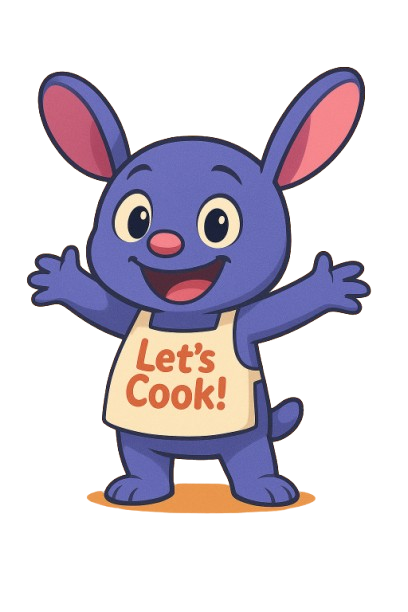
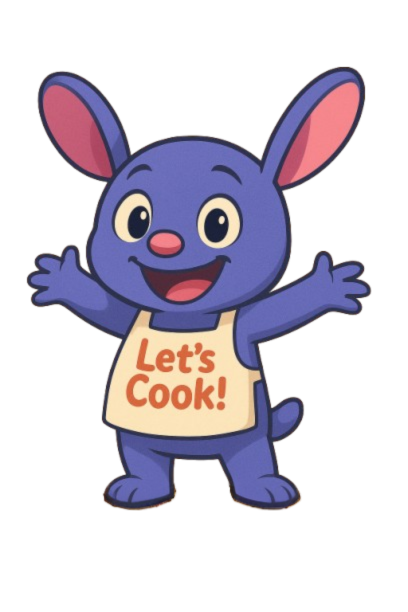
Added CSS shadow

Changed region(s): [[0.2059, 0.7761, 0.7941, 0.8382], [0.2059, 0.4036, 0.2353, 0.4346]]

diff --git a/js/cook.js b/js/cook.js
@@ -145,6 +145,7 @@ function showCookingPage(recipe) {
   var char = document.getElementById("game-character");
   char.src = "../assets/Character_all/Gembira.png";
   char.style.animation = "charaJumping 1s ease-out infinite";
+  document.getElementById("character-shadow").style.animation = "shadowJumping 1s ease-out infinite";
 
   timerInterval = setInterval(() => {
     timerSoundTicking.play();
@@ -152,6 +153,7 @@ function showCookingPage(recipe) {
     if (timeLeft < 15) {
       document.getElementById("game-character").src = "../assets/Character_all/Panik.png";
       document.getElementById("game-character").style.animation = "panicShake 1s ease-out infinite";
+      document.getElementById("character-shadow").style.animation = "panicShake 1s ease-out infinite";
     }
     if (timeLeft < 50) {
       timeScore = Math.max(0, Math.floor((timeLeft / 50) * 70));
@@ -239,8 +241,10 @@ function drop(ev) {
     if (score === 100) {
       char.src = "../assets/Character_all/Buncit.png";
       char.style.animation = "none";
+      document.getElementById("character-shadow").style.animation = "none";
     } else {
       char.src = "../assets/Character_all/GoodJob.png";
+      document.getElementById("character-shadow").style.animation = "none";
     }
 
     stopTicking();
@@ -289,6 +293,7 @@ function showFailMessage() {
   };
   document.getElementById("game-character").src = "../assets/Character_all/Sedih.png";
   document.getElementById("game-character").style.animation = "none";
+  document.getElementById("character-shadow").style.animation = "none";
   failBox.appendChild(message);
   failBox.appendChild(tryAgainBtn);
   document.body.appendChild(failBox);

diff --git a/css/cook.css b/css/cook.css
@@ -259,6 +259,10 @@
   display: inline-block;
 }
 
+.character-wrapper {
+  position: absolute;
+  width: fit-content;
+}
 
 #game-character {
   position: absolute;
@@ -266,6 +270,18 @@
   left: -10px;   /* Geser ke kiri dari ujung drop area */
   width: 100px;
   z-index: 10;
+}
+
+#character-shadow {
+  position: absolute;
+  bottom: -22px;
+  left: 15px;
+  width: 48px;
+  height: 12px;
+  background:#dd7739;
+  border-radius: 50%;
+  z-index: 1;
+  filter: blur(2px);
 }
 
 @keyframes charaJumping {
@@ -276,6 +292,15 @@
   70%  { transform: translateY(-10px) scaleY(1.05); }
   90%  { transform: translateY(0) scaleY(0.95); }   /* squash on landing */
   100% { transform: translateY(0) scaleY(1); }
+}
+
+@keyframes shadowJumping {
+  0%, 100% { transform: scaleX(1); opacity: 1; }
+  10%      { transform: scaleX(1.2); opacity: 0.95; }
+  30%      { transform: scaleX(0.8); opacity: 0.6; }
+  50%      { transform: scaleX(0.6); opacity: 0.4; }
+  70%      { transform: scaleX(0.8); opacity: 0.6; }
+  90%      { transform: scaleX(1.1); opacity: 0.9; }
 }
 
 @keyframes panicShake {

diff --git a/html/spa.html b/html/spa.html
@@ -85,7 +85,10 @@
         <!-- Character above drop area -->
 <div class="drop-wrapper">
   <div class="drop-container">
-    <img id="game-character" src="../assets/Character_all/Gembira.png" alt="Character Reaction" />
+    <div class="character-wrapper">
+      <img id="game-character" src="../assets/Character_all/Gembira.png" alt="Character Reaction" />
+      <div id="character-shadow"></div>
+    </div>
     <div id="drop-area" ondrop="drop(event)" ondragover="allowDrop(event)">
       Drop ingredients on this table, as fast as possible in the correct order
     </div>
